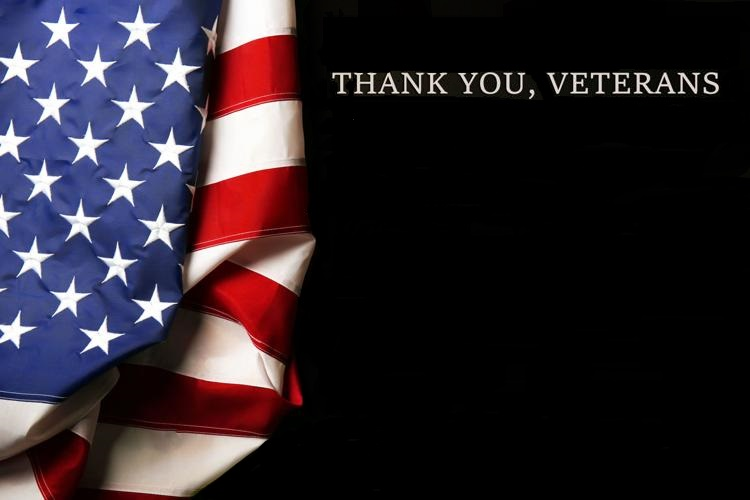
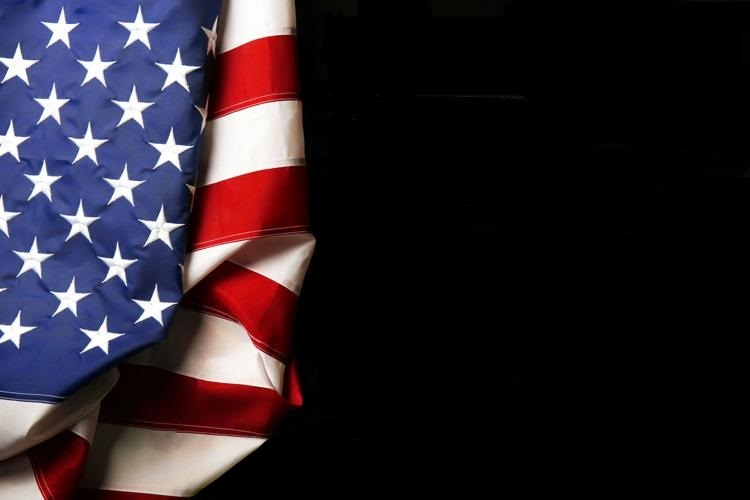
Event updates. Reference McMorris Lodge. Add Veterans Day image. Remove donation button

Changed region(s): [[0.4293, 0.12, 0.9813, 0.21]]

diff --git a/index.html b/index.html
@@ -266,8 +266,8 @@
           <li style="color:white">Wildcats Helping the Arts & Music Payable to: WHAM PO Box 458 Shoreham, NY 11786</li>
           <li style="color:white"><a href="https://www.madd.org/new-york/donate/" target="_blank" ><u>Mothers Against Drunk Driving (MADD)</u></a>, 33 Walt Whitman Road, Suite 210W Huntington Station, NY 11746</li>
         <p/>
-       <h5 style="margin: 0 0 0px 0"><a href="docs/PTA_BloodDrive_2018.pdf" target="_blank"><u>PTA Blood Drive in Memory of Andrew McMorris</u></a></h4>
-        <p  style="color:white; padding-left:40px; padding-right:40px">Join us at the <a href="https://www.google.com/maps/search/?api=1&query=Wading%20River%20School" target="_blank">Wading River School Gym</a> on November 14th from 2:45 PM to 8:45 PM to donate blood in honor of Andrew, and to mirror what he exemplified by his character and deeds. This is also an opportunity for Scouts to volunteer to help as well.</p>
+       <h5 style="margin: 0 0 0px 0"><a href="https://www.sccbsa.org/mcmorris" target="_blank"><u>Honoring the memory of Andrew: McMorris Lodge</u></a></h4>
+        <p  style="color:white; padding-left:40px; padding-right:40px">Please see the <a href="https://www.sccbsa.org/mcmorris" target="_blank">fundraiser</a> by the <a href="https://www.sccbsa.org/">SCC BSA</a> to raise money for the McMorris Lodge in honor of Andrew.</p>
          <p/>
       
     <p style="color:white;">Cards and condolences in support of Andrew McMorris can be sent to: Troop 161, C/O Jane Sherman, 7 Bayberry Rd, Wading River, NY 11792</p>
@@ -372,13 +372,14 @@
 								allowTransparency="true"
 								allow="encrypted-media">
             </iframe>
-            <p style="padding-bottom:0"><b>Donate to Troop 161 via Paypal:</b></p>
+          <!--  
+           <p style="padding-bottom:0"><b>Donate to Troop 161 via Paypal:</b></p>
             <form action="https://www.paypal.com/cgi-bin/webscr" method="post" target="_top">
                 <input type="hidden" name="cmd" value="_s-xclick">
                 <input type="hidden" name="hosted_button_id" value="Z5FBYZW3PD4L4">
                 <input type="image" src="https://www.paypalobjects.com/en_US/i/btn/btn_donateCC_LG.gif" border="0" name="submit" alt="PayPal - The safer, easier way to pay online!">
                 <img alt="" border="0" src="https://www.paypalobjects.com/en_US/i/scr/pixel.gif" width="1" height="1">
-            </form>
+            </form> -->
 
           </div>
         </div>
@@ -484,42 +485,10 @@
           </div> -->
           <div class="col-lg-4 col-md-6 wow fadeInUp" data-wow-delay="0.2s">
             <div class="box">
-              <div class="icon"><a href="docs/PTA_BloodDrive_2018.pdf" target="_blank"><i class="fa fa-calendar"></i></a></div>
-                <h4 class="title"><span property="name"><a href="docs/PTA_BloodDrive_2018.pdf" target="_blank" style="color:red">PTA Blood Drive for Andrew</a></span></h4>
-              <h6><span property="startDate" content="2018-11-14T14:45">November 14th 2:45 PM</span> to <span property="endDate" content="2018-11-14T20:45">8:45 PM</span></h6>
-                <p class="description">There will be a <a href="docs/PTA_BloodDrive_2018.pdf" target="_blank">Blood Drive</a> at the <a href="https://www.google.com/maps/search/?api=1&query=Wading%20River%20School" target="_blank">Wading River School Gym</a>. Service hours opportunity. See  <a href="http://www.troopmasterweb.com/bsatroop161">TroopMaster</a>. 16+ to donate.</p>
-                <meta property="image" content="https://www.troop161shoreham.org/img/1200px-Boy_Scouts_of_America_corporate_trademark.svg" />
-                <div property="performer" typeof="Organization">
-                        <meta propery="sameAs" content="https://www.troop161shoreham.org/#organization" />
-                        <meta property="name" content="Boy Scout Troop 161 Shoreham, NY" />
-                </div>
-                <div class="event-venue" property="location" typeof="Place">
-                    <span property="name" content="Robert Reid Recreations Center"></span>
-                    <div class="address" property="address" typeof="PostalAddress">
-                        <meta property="streetAddress" content="1900 Wading River Manor Road"/>
-                        <meta property="addressLocality" content="Wading River"/>
-                        <meta property="addressRegion" content="NY"/>
-                        <meta property="postalCode" content="11792"/>
-                        <meta property="description" content="Wading River School" />
-                    </div>
-                </div>
-                <span property="offers" typeof="offer" >
-                    <div class="event-price">
-                        <meta property="priceCurrency" content="USD" />
-                        <meta property="price" content="0.00" />
-                        <meta property="url" content="http://www.troopmasterweb.com/bsatroop161" />
-                        <meta property="availability" content="Available" />
-                        <meta property="validFrom" content="2018-11-05" />
-                    </div>
-                </span>
-            </div>
-          </div>
-          <div class="col-lg-4 col-md-6 wow fadeInUp" data-wow-delay="0.2s">
-            <div class="box">
               <div class="icon"><i class="fa fa-calendar"></i></div>
-              <h4 class="title"><span property="name">Board of Review</span></h4>
-              <h6><span property="startDate" content="2018-11-14T18:30">November 14th  6:30 PM</span> to <span property="endDate" content="2018-11-14T19:30">7:30 PM</span></h6>
-                <p class="description">The Board of Review was rescheduled due to the Suffolk Council 100 year rally.</p>
+              <h4 class="title"><span property="name">Annapolis Scout Day &amp; Camping</span></h4>
+              <h6><span property="startDate" content="2018-11-16T09:30">November 16th 9:30 AM</span> to <span property="endDate" content="2018-11-18T14:30">the 18th</span></h6>
+                <p class="description"><a href="https://www.google.com/maps/search/?api=1&query=Navy-Marine%20Corps%20Memorial%20Stadium,%20Taylor Avenue,%20Annapolis,%20MD" target="_blank">Navy-Marine Corps Memorial Stadium</a> Annapolis, Maryland. Tour of Annapolis.</p>
                 <meta property="image" content="https://www.troop161shoreham.org/img/1200px-Boy_Scouts_of_America_corporate_trademark.svg" />
                 <div property="performer" typeof="Organization">
                         <meta propery="sameAs" content="https://www.troop161shoreham.org/#organization" />
@@ -547,70 +516,6 @@
             </div>
           </div>
           <div class="col-lg-4 col-md-6 wow fadeInUp" data-wow-delay="0.2s">
-            <div class="box">
-              <div class="icon"><i class="fa fa-calendar"></i></div>
-              <h4 class="title"><span property="name">Philmont Meeting</span></h4>
-              <h6><span property="startDate" content="2018-11-14T18:30">November 14th 6:30 PM</span> to <span property="endDate" content="2018-11-14T19:30">7:30 PM</span></h6>
-                <p class="description">There is a Philmont meeting at the <a href="https://www.google.com/maps/search/?api=1&query=Robert%20S%20Reid%20Community%20Center" target="_blank">Rec Center</a>. For those going to Philmont it is mandatory for the scout and one parent to attend.</p>
-                <meta property="image" content="https://www.troop161shoreham.org/img/1200px-Boy_Scouts_of_America_corporate_trademark.svg" />
-                <div property="performer" typeof="Organization">
-                        <meta propery="sameAs" content="https://www.troop161shoreham.org/#organization" />
-                        <meta property="name" content="Boy Scout Troop 161 Shoreham, NY" />
-                </div>
-                <div class="event-venue" property="location" typeof="Place">
-                    <span property="name" content="Robert Reid Recreations Center"></span>
-                    <div class="address" property="address" typeof="PostalAddress">
-                        <meta property="streetAddress" content="Defense Hill Road"/>
-                        <meta property="addressLocality" content="Shoreham"/>
-                        <meta property="addressRegion" content="NY"/>
-                        <meta property="postalCode" content="11786"/>
-                        <meta property="description" content="Meeting place for troop meetings and departure point for some trips." />
-                    </div>
-                </div>
-                <span property="offers" typeof="offer" >
-                    <div class="event-price">
-                        <meta property="priceCurrency" content="USD" />
-                        <meta property="price" content="0.00" />
-                        <meta property="url" content="http://www.troopmasterweb.com/bsatroop161" />
-                        <meta property="availability" content="Available" />
-                        <meta property="validFrom" content="2018-11-04" />
-                    </div>
-                </span>
-            </div>
-          </div>
-           <div class="col-lg-4 col-md-6 wow fadeInUp" data-wow-delay="0.2s">
-            <div class="box">
-              <div class="icon"><i class="fa fa-calendar"></i></div>
-              <h4 class="title"><span property="name">Troop Meeting</span></h4>
-              <h6><span property="startDate" content="2018-11-14T19:30">November 14th 7:30 PM</span> to <span property="endDate" content="2018-11-14T21:00">9:00 PM</span></h6>
-                <p class="description">There is a troop meeting on 11/14 at the <a href="https://www.google.com/maps/search/?api=1&query=Robert%20S%20Reid%20Community%20Center" target="_blank">Rec Center</a>. Please join us.</p>
-                <meta property="image" content="https://www.troop161shoreham.org/img/1200px-Boy_Scouts_of_America_corporate_trademark.svg" />
-                <div property="performer" typeof="Organization">
-                        <meta propery="sameAs" content="https://www.troop161shoreham.org/#organization" />
-                        <meta property="name" content="Boy Scout Troop 161 Shoreham, NY" />
-                </div>
-                <div class="event-venue" property="location" typeof="Place">
-                    <span property="name" content="Robert Reid Recreations Center"></span>
-                    <div class="address" property="address" typeof="PostalAddress">
-                        <meta property="streetAddress" content="Defense Hill Road"/>
-                        <meta property="addressLocality" content="Shoreham"/>
-                        <meta property="addressRegion" content="NY"/>
-                        <meta property="postalCode" content="11786"/>
-                        <meta property="description" content="Meeting place for troop meetings and departure point for some trips." />
-                    </div>
-                </div>
-                <span property="offers" typeof="offer" >
-                    <div class="event-price">
-                        <meta property="priceCurrency" content="USD" />
-                        <meta property="price" content="0.00" />
-                        <meta property="url" content="http://www.troopmasterweb.com/bsatroop161" />
-                        <meta property="availability" content="Available" />
-                        <meta property="validFrom" content="2018-08-16" />
-                    </div>
-                </span>
-            </div>
-          </div>
-              <div class="col-lg-4 col-md-6 wow fadeInUp" data-wow-delay="0.2s">
             <div class="box">
               <div class="icon"><i class="fa fa-calendar"></i></div>
               <h4 class="title"><span property="name">Christmas Tree Delivery</span></h4>
@@ -645,9 +550,41 @@
           <div class="col-lg-4 col-md-6 wow fadeInUp" data-wow-delay="0.2s">
             <div class="box">
               <div class="icon"><i class="fa fa-calendar"></i></div>
-              <h4 class="title"><span property="name">Annapolis Scout Day &amp; Camping</span></h4>
-              <h6><span property="startDate" content="2018-11-16T09:30">November 16th 9:30 AM</span> to <span property="endDate" content="2018-11-18T14:30">the 18th</span></h6>
-                <p class="description"><a href="https://www.google.com/maps/search/?api=1&query=Navy-Marine%20Corps%20Memorial%20Stadium,%20Taylor Avenue,%20Annapolis,%20MD" target="_blank">Navy-Marine Corps Memorial Stadium</a> Annapolis, Maryland. Tour of Annapolis.</p>
+              <h4 class="title"><span property="name">Eagle Scout Project Aid</span></h4>
+              <h6><span property="startDate" content="2018-11-17T11:00">November 17th 11:00 AM</span> to <span property="endDate" content="2018-11-17T12:00">12:00 PM</span></h6>
+                <p class="description">Come help out Ronin with his Eagle Scout project. This will be at the  <a href="https://www.google.com/maps/search/?api=1&query=Shoreham-Wading%20River%20High%20School" target="_blank">SWR High School</a>. Register on <a href="http://www.troopmasterweb.com/bsatroop161">TroopMaster</a>.</p>
+                <meta property="image" content="https://www.troop161shoreham.org/img/1200px-Boy_Scouts_of_America_corporate_trademark.svg" />
+                <div property="performer" typeof="Organization">
+                        <meta propery="sameAs" content="https://www.troop161shoreham.org/#organization" />
+                        <meta property="name" content="Boy Scout Troop 161 Shoreham, NY" />
+                </div>
+                <div class="event-venue" property="location" typeof="Place">
+                    <span property="name" content="Shoreham-Wading River High School"></span>
+                    <div class="address" property="address" typeof="PostalAddress">
+                        <meta property="streetAddress" content="250A NY-25A"/>
+                        <meta property="addressLocality" content="Shoreham"/>
+                        <meta property="addressRegion" content="NY"/>
+                        <meta property="postalCode" content="11786"/>
+                        <meta property="description" content="Shoreham Wading River High School" />
+                    </div>
+                </div>
+                <span property="offers" typeof="offer" >
+                    <div class="event-price">
+                        <meta property="priceCurrency" content="USD" />
+                        <meta property="price" content="0.00" />
+                        <meta property="url" content="http://www.troopmasterweb.com/bsatroop161" />
+                        <meta property="availability" content="Available" />
+                        <meta property="validFrom" content="2018-11-15" />
+                    </div>
+                </span>
+            </div>
+          </div>
+          <div class="col-lg-4 col-md-6 wow fadeInUp" data-wow-delay="0.2s">
+            <div class="box">
+              <div class="icon"><i class="fa fa-calendar"></i></div>
+              <h4 class="title"><span property="name">*** No Troop Meeting ***</span></h4>
+              <h6><span property="startDate" content="2018-11-21T17:30">November 21st</span><span property="endDate" content="2018-11-28T21:00"></span></h6>
+                <p class="description">There will be no troop meeting on 11/21. Happy Thanksgiving!</p>
                 <meta property="image" content="https://www.troop161shoreham.org/img/1200px-Boy_Scouts_of_America_corporate_trademark.svg" />
                 <div property="performer" typeof="Organization">
                         <meta propery="sameAs" content="https://www.troop161shoreham.org/#organization" />
@@ -669,12 +606,13 @@
                         <meta property="price" content="0.00" />
                         <meta property="url" content="http://www.troopmasterweb.com/bsatroop161" />
                         <meta property="availability" content="Available" />
-                        <meta property="validFrom" content="2018-08-16" />
+                        <meta property="validFrom" content="2018-11-16" />
                     </div>
                 </span>
             </div>
           </div>
-                 <div class="col-lg-4 col-md-6 wow fadeInUp" data-wow-delay="0.2s">
+
+          <div class="col-lg-4 col-md-6 wow fadeInUp" data-wow-delay="0.2s">
             <div class="box">
               <div class="icon"><i class="fa fa-calendar"></i></div>
               <h4 class="title"><span property="name">Troop Meeting</span></h4>
@@ -1085,7 +1023,7 @@
     <div class="footer-top">
       <div class="container">
           <p align="center" style="font-size: 10px">This site is maintained by <a href="mailto:michael.eyring@icloud.com"><u>Michael Eyring</u></a>.<br>
-          Last updated on 11/9/18.</p>
+          Last updated on 11/15/18.</p>
           <script type="application/ld+json">
           {
                 "@context": "http://schema.org",
@@ -1111,7 +1049,7 @@
             "@type": "WebPage",
             "url": "https://www.troop161shoreham.com/index.html",
             "name": "Boy Scout Troop 161 Shoreham",
-            "dateModified": "2018-11-09"
+            "dateModified": "2018-11-15"
     }
     </script>
     <!-- json-ld for website data -->
